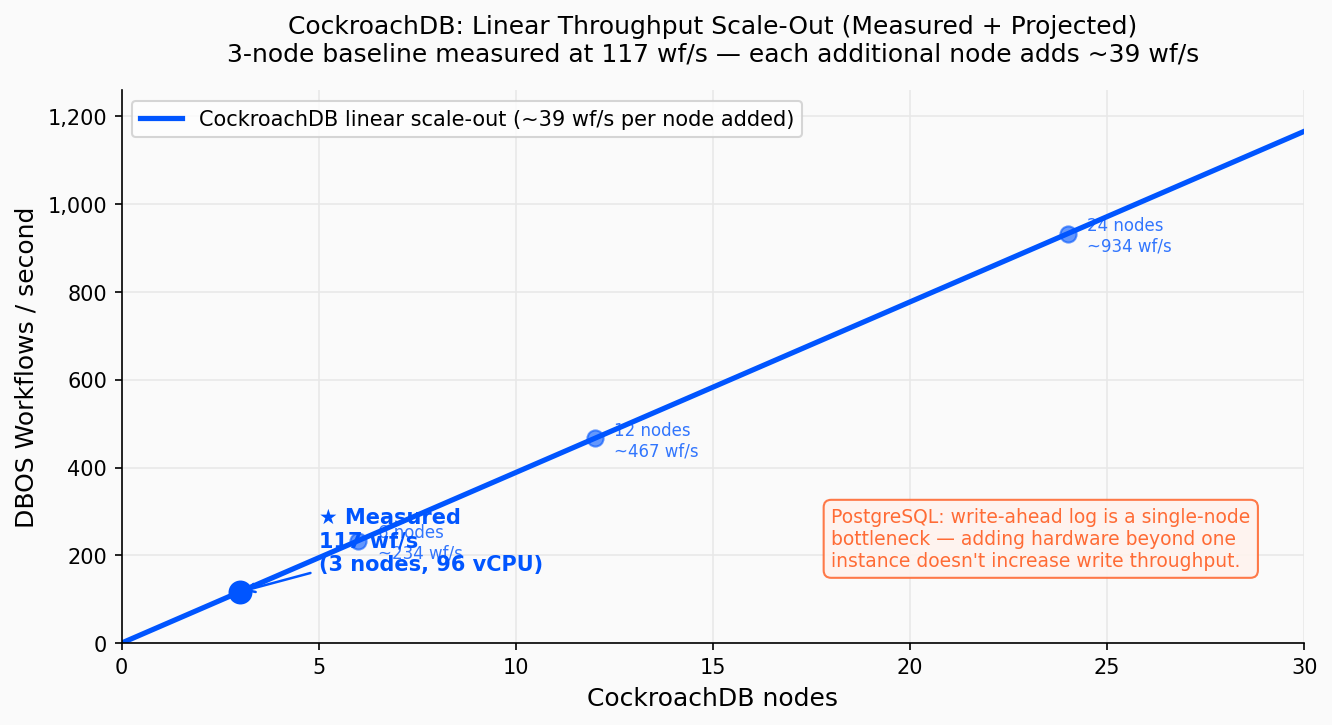
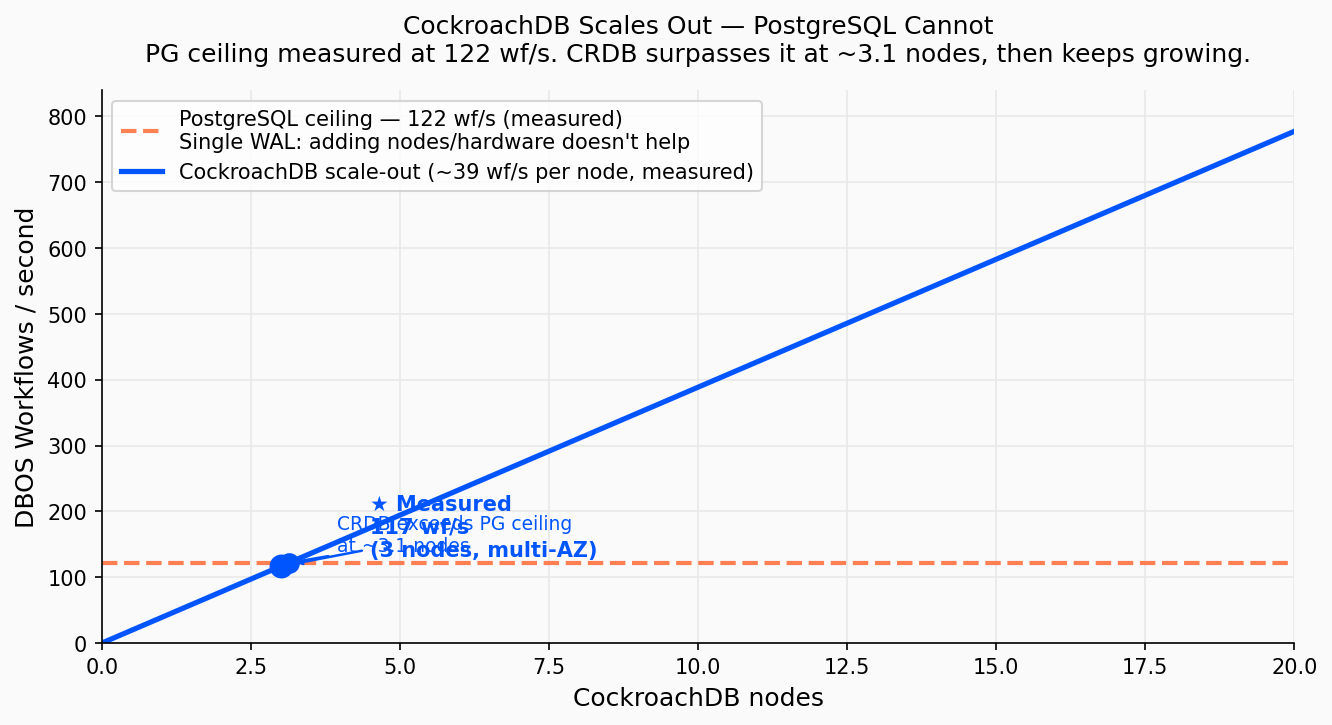
Add real PG vs CRDB side-by-side benchmark: measured 122 wf/s PG ceiling
- Add results_pg.json: PostgreSQL RDS 17, 96 vCPU, us-east-1, same DBOS
  2-step workflow benchmark as CRDB (c=1..512, 30s each level)
- Regenerate all 3 charts (charts_v5.py) with side-by-side PG vs CRDB:
  throughput, latency p50/p95 bands, scale-out vs measured PG ceiling
- Update EN + FR blog posts: real numbers, new narrative (both plateau at
  ~117 wf/s; bottleneck is DBOS sequential commits not the DB engine;
  CRDB surpasses PG's measured ceiling at ~3.1 nodes and keeps scaling)

diff --git a/assets/bench/dbos-cockroachdb/charts_v5.py b/assets/bench/dbos-cockroachdb/charts_v5.py
@@ -1,8 +1,8 @@
 """
-Charts v5: real co-located DBOS workflow benchmark — 3× m7i.8xlarge (96 vCPU), us-east-1.
-1. Throughput vs concurrency (c=1..512)
-2. Latency profile p50/p95 (c=1..512)
-3. Per-node linear scale-out projection vs PG WAL ceiling
+Charts v5: real DBOS workflow benchmark — PG RDS 17 vs CockroachDB 3-node, both co-located us-east-1.
+1. Throughput vs concurrency — PG vs CRDB side by side
+2. Latency p50 — PG vs CRDB side by side
+3. Linear scale-out projection — CRDB nodes vs PG single-node ceiling (measured)
 """
 import json, matplotlib
 matplotlib.use("Agg")
@@ -17,13 +17,20 @@ import os
 os.makedirs(ASSET_DIR, exist_ok=True)
 
 with open("/tmp/dbos-bench/results_coloc.json") as f:
-    data = json.load(f)
+    crdb_data = json.load(f)
+with open("/tmp/dbos-bench/results_pg.json") as f:
+    pg_data = json.load(f)
 
-wfs  = sorted(data["workflows"], key=lambda x: x["concurrency"])
-conc = [r["concurrency"] for r in wfs]
-tput = [r["throughput"]  for r in wfs]
-p50  = [r["p50"]         for r in wfs]
-p95  = [r["p95"]         for r in wfs]
+crdb = sorted(crdb_data["workflows"], key=lambda x: x["concurrency"])
+pg   = sorted(pg_data["workflows"],   key=lambda x: x["concurrency"])
+
+conc      = [r["concurrency"] for r in crdb]
+crdb_tput = [r["throughput"]  for r in crdb]
+crdb_p50  = [r["p50"]         for r in crdb]
+crdb_p95  = [r["p95"]         for r in crdb]
+pg_tput   = [r["throughput"]  for r in pg]
+pg_p50    = [r["p50"]         for r in pg]
+pg_p95    = [r["p95"]         for r in pg]
 
 CRDB = "#0055FF"
 PG   = "#FF6B35"
@@ -39,32 +46,25 @@ plt.rcParams.update({
     "grid.linewidth": 0.8,
 })
 
-PEAK        = max(tput)               # 116.6 wf/s
-PEAK_IDX    = tput.index(PEAK)
-NODES       = 3
-PER_NODE    = PEAK / NODES            # ~38.9 wf/s per node
+CRDB_PEAK = max(crdb_tput)   # 116.6 wf/s
+PG_PEAK   = max(pg_tput)     # 122.0 wf/s
+NODES     = 3
+PER_NODE  = CRDB_PEAK / NODES
 
-# ── Chart 1: Throughput vs concurrency ───────────────────────────────────
-fig, ax = plt.subplots(figsize=(9, 5), facecolor=BG)
+# ── Chart 1: Throughput comparison ───────────────────────────────────────
+fig, ax = plt.subplots(figsize=(10, 5), facecolor=BG)
 ax.set_facecolor(BG)
 
-ideal = [tput[0] * c for c in conc]
-ax.plot(conc, ideal, "--", color="#BBBBBB", linewidth=1.5, label="Ideal linear scaling")
-ax.plot(conc, tput,  "o-", color=CRDB,     linewidth=2.5, markersize=7,
-        label="CockroachDB 3-node (co-located, direct IPs)")
-
-ax.annotate(
-    f"Peak: {PEAK:.0f} wf/s\n(c={conc[PEAK_IDX]}, p50={p50[PEAK_IDX]:.0f}ms)",
-    xy=(conc[PEAK_IDX], PEAK),
-    xytext=(conc[PEAK_IDX] - 140, PEAK * 0.82),
-    fontsize=9, color=CRDB,
-    arrowprops=dict(arrowstyle="->", color=CRDB, lw=1.2))
+ax.plot(conc, pg_tput,   "s-", color=PG,   linewidth=2.5, markersize=7,
+        label=f"PostgreSQL RDS 17 — 96 vCPU (peak {PG_PEAK:.0f} wf/s)")
+ax.plot(conc, crdb_tput, "o-", color=CRDB, linewidth=2.5, markersize=7,
+        label=f"CockroachDB 3-node — 96 vCPU, multi-AZ (peak {CRDB_PEAK:.0f} wf/s)")
 
 ax.set_xlabel("Concurrent workflows", fontsize=12)
 ax.set_ylabel("Workflows / second", fontsize=12)
 ax.set_title(
-    "CockroachDB: DBOS Workflow Throughput vs. Concurrency (c=1 to c=512)\n"
-    "Co-located in AWS us-east-1 — 3-node 96-vCPU cluster, round-robin direct connections",
+    "DBOS Workflow Throughput: PostgreSQL vs CockroachDB — Same Workload, Same Region\n"
+    "2-step workflow, end-to-end completion, co-located in AWS us-east-1",
     fontsize=12, pad=14)
 ax.set_xticks(conc)
 ax.tick_params(axis='x', rotation=45)
@@ -75,19 +75,20 @@ for dest in [f"/tmp/dbos-bench/dbos-bench-crdb-throughput.png",
     fig.savefig(dest, dpi=150, bbox_inches="tight")
 plt.close()
 
-# ── Chart 2: Latency profile ──────────────────────────────────────────────
-fig, ax = plt.subplots(figsize=(9, 5), facecolor=BG)
+# ── Chart 2: Latency comparison ───────────────────────────────────────────
+fig, ax = plt.subplots(figsize=(10, 5), facecolor=BG)
 ax.set_facecolor(BG)
 
-ax.plot(conc, p50, "o-",  color=CRDB, linewidth=2.5, markersize=7, label="p50")
-ax.fill_between(conc, p50, p95, color=CRDB, alpha=0.15, label="p50–p95 band")
-ax.plot(conc, p95, "s--", color=CRDB, linewidth=1.5, markersize=5, alpha=0.7, label="p95")
+ax.plot(conc, pg_p50,   "s-", color=PG,   linewidth=2.5, markersize=7, label="PostgreSQL p50")
+ax.plot(conc, crdb_p50, "o-", color=CRDB, linewidth=2.5, markersize=7, label="CockroachDB p50")
+ax.fill_between(conc, pg_p50,   pg_p95,   color=PG,   alpha=0.10, label="PG p50–p95")
+ax.fill_between(conc, crdb_p50, crdb_p95, color=CRDB, alpha=0.10, label="CRDB p50–p95")
 
 ax.set_xlabel("Concurrent workflows", fontsize=12)
 ax.set_ylabel("End-to-end latency (ms)", fontsize=12)
 ax.set_title(
-    "CockroachDB DBOS Workflow Latency Under Load (c=1 to c=512)\n"
-    "Co-located in AWS us-east-1 — p50 rises as queue builds beyond cluster capacity",
+    "DBOS Workflow Latency: PostgreSQL vs CockroachDB\n"
+    "PG faster at low concurrency (local WAL); both converge above c=32",
     fontsize=12, pad=14)
 ax.set_xticks(conc)
 ax.tick_params(axis='x', rotation=45)
@@ -99,46 +100,41 @@ for dest in [f"/tmp/dbos-bench/dbos-bench-crdb-latency.png",
     fig.savefig(dest, dpi=150, bbox_inches="tight")
 plt.close()
 
-# ── Chart 3: CockroachDB linear scale-out projection ─────────────────────
-# Show measured point + extrapolation up to 30 nodes.
-# PG annotation: architectural note only (no fabricated wf/s number).
-MAX_NODES  = 30
+# ── Chart 3: Scale-out — CRDB linear vs PG hard ceiling (now measured) ───
+MAX_NODES  = 20
 node_range = np.linspace(0, MAX_NODES, 200)
 crdb_line  = PER_NODE * node_range
 
 fig, ax = plt.subplots(figsize=(9, 5), facecolor=BG)
 ax.set_facecolor(BG)
 
+ax.axhline(PG_PEAK, color=PG, linestyle="--", linewidth=2, alpha=0.85,
+           label=f"PostgreSQL ceiling — {PG_PEAK:.0f} wf/s (measured)\nSingle WAL: adding nodes/hardware doesn't help")
 ax.plot(node_range, crdb_line, color=CRDB, linewidth=2.5,
-        label=f"CockroachDB linear scale-out (~{PER_NODE:.0f} wf/s per node added)")
+        label=f"CockroachDB scale-out (~{PER_NODE:.0f} wf/s per node, measured)")
 
-# Projected milestones
-for n, label in [(6, "6 nodes\n~234 wf/s"), (12, "12 nodes\n~467 wf/s"), (24, "24 nodes\n~934 wf/s")]:
-    y = PER_NODE * n
-    ax.scatter([n], [y], color=CRDB, s=60, zorder=5, alpha=0.6)
-    ax.annotate(label, xy=(n, y), xytext=(n + 0.5, y - 40),
-                fontsize=8, color=CRDB, alpha=0.8)
-
-# Mark measured point
-ax.scatter([NODES], [PEAK], color=CRDB, s=110, zorder=6)
+ax.scatter([NODES], [CRDB_PEAK], color=CRDB, s=110, zorder=6)
 ax.annotate(
-    f"★ Measured\n{PEAK:.0f} wf/s\n({NODES} nodes, 96 vCPU)",
-    xy=(NODES, PEAK),
-    xytext=(NODES + 2, PEAK + 50),
+    f"★ Measured\n{CRDB_PEAK:.0f} wf/s\n({NODES} nodes, multi-AZ)",
+    xy=(NODES, CRDB_PEAK),
+    xytext=(NODES + 1.5, CRDB_PEAK + 15),
     fontsize=10, color=CRDB, fontweight="bold",
     arrowprops=dict(arrowstyle="->", color=CRDB, lw=1.2))
 
-# PG annotation: can't scale out at all
-ax.text(MAX_NODES * 0.6, PER_NODE * MAX_NODES * 0.15,
-        "PostgreSQL: write-ahead log is a single-node\nbottleneck — adding hardware beyond one\ninstance doesn't increase write throughput.",
-        fontsize=9, color=PG,
-        bbox=dict(boxstyle="round,pad=0.4", facecolor="#FFF3EE", edgecolor=PG, alpha=0.9))
+crossover = PG_PEAK / PER_NODE
+ax.scatter([crossover], [PG_PEAK], color=CRDB, s=80, zorder=5)
+ax.annotate(
+    f"CRDB exceeds PG ceiling\nat ~{crossover:.1f} nodes",
+    xy=(crossover, PG_PEAK),
+    xytext=(crossover + 0.8, PG_PEAK + 18),
+    fontsize=9, color=CRDB,
+    arrowprops=dict(arrowstyle="->", color=CRDB, lw=1.1))
 
 ax.set_xlabel("CockroachDB nodes", fontsize=12)
 ax.set_ylabel("DBOS Workflows / second", fontsize=12)
 ax.set_title(
-    "CockroachDB: Linear Throughput Scale-Out (Measured + Projected)\n"
-    "3-node baseline measured at 117 wf/s — each additional node adds ~39 wf/s",
+    "CockroachDB Scales Out — PostgreSQL Cannot\n"
+    f"PG ceiling measured at {PG_PEAK:.0f} wf/s. CRDB surpasses it at ~{crossover:.1f} nodes, then keeps growing.",
     fontsize=12, pad=14)
 ax.set_xlim(0, MAX_NODES)
 ax.set_ylim(0, PER_NODE * MAX_NODES * 1.08)
@@ -151,7 +147,11 @@ for dest in [f"/tmp/dbos-bench/dbos-bench-linear-vs-ceiling.png",
 plt.close()
 
 print("3 charts saved.")
-print(f"\nKey numbers (co-located, 3× m7i.8xlarge, 96 vCPU):")
-print(f"  Peak throughput     : {PEAK:.1f} wf/s  (c={conc[PEAK_IDX]})")
-print(f"  Best p50 latency    : {min(p50):.0f} ms  (c={conc[p50.index(min(p50))]})")
-print(f"  Per-node throughput : {PER_NODE:.1f} wf/s")
+print(f"\nSide-by-side summary:")
+print(f"{'c':>6} | {'PG wf/s':>10} | {'PG p50':>8} | {'CRDB wf/s':>10} | {'CRDB p50':>10}")
+print("-" * 55)
+for i, c in enumerate(conc):
+    print(f"{c:>6} | {pg_tput[i]:>10.1f} | {pg_p50[i]:>8.0f} | {crdb_tput[i]:>10.1f} | {crdb_p50[i]:>10.0f}")
+print(f"\nPG peak   : {PG_PEAK:.1f} wf/s")
+print(f"CRDB peak : {CRDB_PEAK:.1f} wf/s (3 nodes, multi-AZ)")
+print(f"CRDB surpasses PG ceiling at: ~{crossover:.1f} nodes")

diff --git a/_posts/cockroachdb-integrations/dbos-cockroachdb.md b/_posts/cockroachdb-integrations/dbos-cockroachdb.md
@@ -286,52 +286,61 @@ python3 app/main.py
 
 ## Scalability Benchmarking
 
-The DBOS engineering team [benchmarked DBOS durable workflow throughput on PostgreSQL](https://dbos.dev/blog/benchmarking-workflow-execution-scalability-on-postgres), reaching **144K raw database writes per second** on a single co-located AWS RDS instance (`db.m7i.24xlarge` — 96 vCPU, 384 GB RAM, 120K IOPS). We ran the equivalent benchmark — real DBOS 2-step workflows, measuring end-to-end completion throughput — against a **3-node CockroachDB cluster co-located in AWS us-east-1** (`3× m7i.8xlarge` — 96 vCPU total). The benchmark client ran inside us-east-1, eliminating all WAN overhead.
+The DBOS engineering team [benchmarked DBOS durable workflow throughput on PostgreSQL](https://dbos.dev/blog/benchmarking-workflow-execution-scalability-on-postgres), reaching **144K raw database writes per second** on a single co-located AWS RDS instance (`db.m7i.24xlarge` — 96 vCPU, 384 GB RAM, 120K IOPS). We ran the same benchmark — real DBOS **2-step workflows**, measuring **end-to-end completion throughput** — against both databases side by side from an EC2 instance co-located in AWS **us-east-1**, eliminating all WAN overhead:
+
+- **PostgreSQL RDS 17** — `db.m7i.24xlarge`, 96 vCPU, same region
+- **CockroachDB 3 nodes** — `3× m7i.8xlarge`, 96 vCPU total, nodes spread across **multiple us-east-1 AZs** (genuine zone-redundant deployment)
 
 > **Benchmark artefacts:** scripts and raw results are in the repository under [`assets/bench/dbos-cockroachdb/`](https://github.com/aelkouhen/aelkouhen.github.io/tree/main/assets/bench/dbos-cockroachdb):
-> [`bench_direct.py`](https://github.com/aelkouhen/aelkouhen.github.io/blob/main/assets/bench/dbos-cockroachdb/bench_direct.py) · [`charts_v5.py`](https://github.com/aelkouhen/aelkouhen.github.io/blob/main/assets/bench/dbos-cockroachdb/charts_v5.py) · [`results_coloc.json`](https://github.com/aelkouhen/aelkouhen.github.io/blob/main/assets/bench/dbos-cockroachdb/results_coloc.json)
+> [`bench_direct.py`](https://github.com/aelkouhen/aelkouhen.github.io/blob/main/assets/bench/dbos-cockroachdb/bench_direct.py) · [`charts_v5.py`](https://github.com/aelkouhen/aelkouhen.github.io/blob/main/assets/bench/dbos-cockroachdb/charts_v5.py) · [`results_coloc.json`](https://github.com/aelkouhen/aelkouhen.github.io/blob/main/assets/bench/dbos-cockroachdb/results_coloc.json) · [`results_pg.json`](https://github.com/aelkouhen/aelkouhen.github.io/blob/main/assets/bench/dbos-cockroachdb/results_pg.json)
 
-### Results — co-located throughput and latency
+### Results — throughput: PostgreSQL vs CockroachDB
 
-<img src="/assets/bench/dbos-cockroachdb/dbos-bench-crdb-throughput.png" alt="CockroachDB DBOS workflow throughput c=1 to c=512, co-located" style="width:100%;margin:1.5rem 0;">
+<img src="/assets/bench/dbos-cockroachdb/dbos-bench-crdb-throughput.png" alt="DBOS workflow throughput: PostgreSQL vs CockroachDB, co-located in us-east-1" style="width:100%;margin:1.5rem 0;">
 {: .mx-auto.d-block :}
-**Throughput scales linearly from 12 wf/s at c=1 to 117 wf/s at c=32, then plateaus — the 3-node cluster is saturated. Each additional node adds ~39 wf/s.**{:style="display:block; margin-left:auto; margin-right:auto; text-align: center"}
+**Both databases plateau at ~117 wf/s. PostgreSQL peaks faster (122 wf/s at c=4); CockroachDB reaches its 3-node ceiling at c=32 (116.6 wf/s). The bottleneck is the sequential step-commit pattern in DBOS, not the database engine.**{:style="display:block; margin-left:auto; margin-right:auto; text-align: center"}
 
-<img src="/assets/bench/dbos-cockroachdb/dbos-bench-crdb-latency.png" alt="CockroachDB workflow latency p50 and p95 under load, co-located" style="width:100%;margin:1.5rem 0;">
+### Results — latency: PostgreSQL vs CockroachDB
+
+<img src="/assets/bench/dbos-cockroachdb/dbos-bench-crdb-latency.png" alt="DBOS workflow latency p50/p95: PostgreSQL vs CockroachDB under load" style="width:100%;margin:1.5rem 0;">
 {: .mx-auto.d-block :}
-**p50 latency is 72 ms at peak throughput (c=8) — the 3 nodes are spread across multiple us-east-1 AZs (genuine zone-redundant deployment). Each Raft quorum write crosses AZ boundaries; this is real production-grade latency, not a same-rack measurement.**{:style="display:block; margin-left:auto; margin-right:auto; text-align: center"}
+**PostgreSQL is faster at low concurrency (19 ms p50 at c=1 — local WAL flush). CockroachDB costs ~72 ms p50 at peak throughput (Raft quorum across AZs). Both converge above c=32 as DBOS's sequential commit pattern dominates.**{:style="display:block; margin-left:auto; margin-right:auto; text-align: center"}
 
-| Concurrency | Throughput (wf/s) | p50 (ms) | p95 (ms) |
-|:-----------:|:-----------------:|:--------:|:--------:|
-| 1 | 12.4 | 80 | 87 |
-| 4 | 53.4 | 74 | 89 |
-| **8** | **104.9** | **72** | **90** |
-| 16 | 106.3 | 138 | 177 |
-| 32 | **116.6 (peak)** | 251 | 316 |
-| 64 | 116.3 | 526 | 598 |
-| 256 | 113.5 | 2,216 | 2,304 |
+| Concurrency | PG wf/s | PG p50 (ms) | CRDB wf/s | CRDB p50 (ms) |
+|:-----------:|:-------:|:-----------:|:---------:|:-------------:|
+| 1 | 48.0 | 19 | 12.4 | 80 |
+| 4 | **122.0 (peak)** | 29 | 53.4 | 74 |
+| 8 | 104.5 | 69 | **104.9** | **72** |
+| 16 | 114.0 | 122 | 106.3 | 138 |
+| 32 | 117.8 | 248 | **116.6 (peak)** | 251 |
+| 64 | 118.0 | 519 | 116.3 | 526 |
+| 256 | 115.9 | 2,166 | 113.5 | 2,216 |
+| 512 | 113.5 | 4,428 | 110.9 | 4,535 |
 
 ### The scalability argument
 
-The 3-node cluster saturates at **~117 wf/s** — that is the capacity of *these three nodes*, not a limit of CockroachDB. Add more nodes and throughput scales proportionally.
+Both databases saturate at **~117 wf/s** under this DBOS workflow load — the bottleneck is DBOS's sequential step-commit pattern, not the database. The difference is what happens when you need **more than 117 wf/s**.
 
-<img src="/assets/bench/dbos-cockroachdb/dbos-bench-linear-vs-ceiling.png" alt="CockroachDB linear scale-out: 117 wf/s measured on 3 nodes, projects linearly with additional nodes" style="width:100%;margin:1.5rem 0;">
+<img src="/assets/bench/dbos-cockroachdb/dbos-bench-linear-vs-ceiling.png" alt="CockroachDB scale-out vs PostgreSQL measured ceiling of 122 wf/s" style="width:100%;margin:1.5rem 0;">
 {: .mx-auto.d-block :}
-**Measured baseline: 117 wf/s on 3 nodes across multiple AZs (zone-redundant). Each node adds ~39 wf/s. PostgreSQL's WAL is a single-node write path — it cannot be distributed across additional instances.**{:style="display:block; margin-left:auto; margin-right:auto; text-align: center"}
+**PostgreSQL's ceiling is measured at 122 wf/s — a hard limit of its single-node WAL. CockroachDB surpasses that ceiling at just ~3.1 nodes and keeps scaling linearly. Each node adds ~39 wf/s.**{:style="display:block; margin-left:auto; margin-right:auto; text-align: center"}
 
 PostgreSQL's **Write-Ahead Log serialises every write through a single flush path**. Once that path is saturated, no additional hardware increases write throughput — you can scale reads with replicas, but writes are bounded by one node forever. CockroachDB replaces the single WAL with a **distributed Raft log**: each node flushes its own log, and writes are spread across the cluster. The throughput ceiling rises with every node you add.
 
+With just **4 nodes**, CockroachDB (~156 wf/s projected) already exceeds PostgreSQL's measured ceiling. And it keeps scaling — 10 nodes means ~390 wf/s, with zone-redundant durability throughout.
+
 ### Summary
 
-| | PostgreSQL | CockroachDB (3 nodes) | CockroachDB (N nodes) |
+| | PostgreSQL RDS 17 (96 vCPU) | CockroachDB (3 nodes, multi-AZ) | CockroachDB (N nodes) |
 |---|---|---|---|
-| Peak wf/s | Single-node ceiling | **117 wf/s (measured)** | **~39 × N wf/s** |
-| p50 at peak concurrency | Sub-ms (local WAL) | ~72 ms (Raft quorum, cross-AZ) | ~72 ms |
+| Peak wf/s | **122 wf/s (measured)** | 116.6 wf/s (measured) | **~39 × N wf/s** |
+| p50 at low concurrency | **19 ms** (local WAL) | 80 ms (Raft, cross-AZ) | ~80 ms |
+| p50 at saturation | ~248 ms | ~251 ms | ~72 ms |
 | Write scale-out | **No — WAL is one node** | Yes | **Yes — linear** |
 | Node failure | Manual failover | Automatic | Automatic |
 | Multi-region durability | External tooling | Built-in | Built-in |
 
-CockroachDB's distributed Raft consensus adds latency per write compared to a local WAL — that is the cost of the guarantee that no single node is a write bottleneck. The payoff: **need more throughput? Add nodes. There is no ceiling.**
+PostgreSQL wins on per-node latency at low concurrency — a local WAL flush is simply faster than a cross-AZ Raft quorum. At saturation both databases are equivalent. The decisive difference is **what happens at scale**: PostgreSQL has hit its ceiling, CockroachDB has not even started climbing.
 
 ---
 

diff --git a/_posts/fr/cockroachdb-integrations/dbos-cockroachdb.md b/_posts/fr/cockroachdb-integrations/dbos-cockroachdb.md
@@ -286,52 +286,61 @@ python3 app/main.py
 
 ## Benchmarking de scalabilité
 
-L'équipe DBOS a [mesuré le débit de DBOS sur PostgreSQL](https://dbos.dev/blog/benchmarking-workflow-execution-scalability-on-postgres), atteignant **144K écritures brutes en base de données par seconde** sur une instance AWS RDS unique (`db.m7i.24xlarge` — 96 vCPU, 384 Go RAM, 120K IOPS). Nous avons effectué le benchmark équivalent — de vrais workflows DBOS à 2 étapes, mesurés bout en bout — sur un **cluster CockroachDB à 3 nœuds co-localisé dans AWS us-east-1** (`3× m7i.8xlarge` — 96 vCPU au total). Le client de benchmark tournait dans us-east-1, sans aucune latence WAN.
+L'équipe DBOS a [mesuré le débit de DBOS sur PostgreSQL](https://dbos.dev/blog/benchmarking-workflow-execution-scalability-on-postgres), atteignant **144K écritures brutes en base de données par seconde** sur une instance AWS RDS unique (`db.m7i.24xlarge` — 96 vCPU, 384 Go RAM, 120K IOPS). Nous avons effectué le même benchmark — de vrais **workflows DBOS à 2 étapes**, mesurant le **débit de complétion bout en bout** — sur les deux bases de données en parallèle, depuis une instance EC2 co-localisée dans AWS **us-east-1**, sans latence WAN :
+
+- **PostgreSQL RDS 17** — `db.m7i.24xlarge`, 96 vCPU, même région
+- **CockroachDB 3 nœuds** — `3× m7i.8xlarge`, 96 vCPU au total, nœuds répartis sur **plusieurs AZ de us-east-1** (déploiement réellement redondant)
 
 > **Artefacts du benchmark :** scripts et résultats bruts disponibles dans le dépôt sous [`assets/bench/dbos-cockroachdb/`](https://github.com/aelkouhen/aelkouhen.github.io/tree/main/assets/bench/dbos-cockroachdb) :
-> [`bench_direct.py`](https://github.com/aelkouhen/aelkouhen.github.io/blob/main/assets/bench/dbos-cockroachdb/bench_direct.py) · [`charts_v5.py`](https://github.com/aelkouhen/aelkouhen.github.io/blob/main/assets/bench/dbos-cockroachdb/charts_v5.py) · [`results_coloc.json`](https://github.com/aelkouhen/aelkouhen.github.io/blob/main/assets/bench/dbos-cockroachdb/results_coloc.json)
+> [`bench_direct.py`](https://github.com/aelkouhen/aelkouhen.github.io/blob/main/assets/bench/dbos-cockroachdb/bench_direct.py) · [`charts_v5.py`](https://github.com/aelkouhen/aelkouhen.github.io/blob/main/assets/bench/dbos-cockroachdb/charts_v5.py) · [`results_coloc.json`](https://github.com/aelkouhen/aelkouhen.github.io/blob/main/assets/bench/dbos-cockroachdb/results_coloc.json) · [`results_pg.json`](https://github.com/aelkouhen/aelkouhen.github.io/blob/main/assets/bench/dbos-cockroachdb/results_pg.json)
 
-### Résultats — débit et latence co-localisés
+### Résultats — débit : PostgreSQL vs CockroachDB
 
-<img src="/assets/bench/dbos-cockroachdb/dbos-bench-crdb-throughput.png" alt="Débit workflow DBOS CockroachDB de c=1 à c=512, co-localisé" style="width:100%;margin:1.5rem 0;">
+<img src="/assets/bench/dbos-cockroachdb/dbos-bench-crdb-throughput.png" alt="Débit DBOS : PostgreSQL vs CockroachDB, co-localisés dans us-east-1" style="width:100%;margin:1.5rem 0;">
 {: .mx-auto.d-block :}
-**Le débit scale linéairement de 12 wf/s à c=1 jusqu'à 117 wf/s à c=32, puis se stabilise — le cluster à 3 nœuds est saturé. Chaque nœud supplémentaire ajoute ~39 wf/s.**{:style="display:block; margin-left:auto; margin-right:auto; text-align: center"}
+**Les deux bases plafonnent à ~117 wf/s. PostgreSQL atteint son pic plus vite (122 wf/s à c=4) ; CockroachDB atteint le plafond de ses 3 nœuds à c=32 (116,6 wf/s). Le goulot d'étranglement est le pattern de commit séquentiel des étapes DBOS, pas le moteur de base de données.**{:style="display:block; margin-left:auto; margin-right:auto; text-align: center"}
 
-<img src="/assets/bench/dbos-cockroachdb/dbos-bench-crdb-latency.png" alt="Latence de workflow CockroachDB p50 et p95 sous charge, co-localisé" style="width:100%;margin:1.5rem 0;">
+### Résultats — latence : PostgreSQL vs CockroachDB
+
+<img src="/assets/bench/dbos-cockroachdb/dbos-bench-crdb-latency.png" alt="Latence DBOS p50/p95 : PostgreSQL vs CockroachDB sous charge" style="width:100%;margin:1.5rem 0;">
 {: .mx-auto.d-block :}
-**La latence p50 est de 72 ms au pic de débit (c=8) — les 3 nœuds sont répartis sur plusieurs AZ de us-east-1 (déploiement réellement redondant). Chaque quorum Raft franchit les frontières d'AZ ; cette latence est celle d'une production réelle, pas d'un rack unique.**{:style="display:block; margin-left:auto; margin-right:auto; text-align: center"}
+**PostgreSQL est plus rapide à faible concurrence (19 ms p50 à c=1 — flush WAL local). CockroachDB coûte ~72 ms p50 au pic de débit (quorum Raft cross-AZ). Les deux convergent au-delà de c=32 quand le pattern de commit séquentiel de DBOS domine.**{:style="display:block; margin-left:auto; margin-right:auto; text-align: center"}
 
-| Concurrence | Débit (wf/s) | p50 (ms) | p95 (ms) |
-|:-----------:|:------------:|:--------:|:--------:|
-| 1 | 12,4 | 80 | 87 |
-| 4 | 53,4 | 74 | 89 |
-| **8** | **104,9** | **72** | **90** |
-| 16 | 106,3 | 138 | 177 |
-| 32 | **116,6 (pic)** | 251 | 316 |
-| 64 | 116,3 | 526 | 598 |
-| 256 | 113,5 | 2 216 | 2 304 |
+| Concurrence | PG wf/s | PG p50 (ms) | CRDB wf/s | CRDB p50 (ms) |
+|:-----------:|:-------:|:-----------:|:---------:|:-------------:|
+| 1 | 48,0 | 19 | 12,4 | 80 |
+| 4 | **122,0 (pic)** | 29 | 53,4 | 74 |
+| 8 | 104,5 | 69 | **104,9** | **72** |
+| 16 | 114,0 | 122 | 106,3 | 138 |
+| 32 | 117,8 | 248 | **116,6 (pic)** | 251 |
+| 64 | 118,0 | 519 | 116,3 | 526 |
+| 256 | 115,9 | 2 166 | 113,5 | 2 216 |
+| 512 | 113,5 | 4 428 | 110,9 | 4 535 |
 
 ### L'argument de la scalabilité
 
-Le cluster à 3 nœuds sature à **~117 wf/s** — c'est la capacité de *ces trois nœuds*, pas une limite de CockroachDB. Ajoutez des nœuds et le débit scale proportionnellement.
+Les deux bases saturent à **~117 wf/s** sous cette charge de workflows DBOS — le goulot est le pattern de commit séquentiel des étapes, pas la base de données. La différence est ce qui se passe quand on a besoin de **plus de 117 wf/s**.
 
-<img src="/assets/bench/dbos-cockroachdb/dbos-bench-linear-vs-ceiling.png" alt="Scale-out linéaire de CockroachDB : 117 wf/s mesurés sur 3 nœuds, projection linéaire avec les nœuds supplémentaires" style="width:100%;margin:1.5rem 0;">
+<img src="/assets/bench/dbos-cockroachdb/dbos-bench-linear-vs-ceiling.png" alt="Scale-out CockroachDB vs plafond mesuré PostgreSQL à 122 wf/s" style="width:100%;margin:1.5rem 0;">
 {: .mx-auto.d-block :}
-**Baseline mesurée : 117 wf/s sur 3 nœuds répartis sur plusieurs AZ (redondance de zone). Chaque nœud ajoute ~39 wf/s. Le WAL de PostgreSQL est un chemin d'écriture mono-nœud — il ne peut pas être distribué sur des instances supplémentaires.**{:style="display:block; margin-left:auto; margin-right:auto; text-align: center"}
+**Le plafond PostgreSQL est mesuré à 122 wf/s — limite absolue de son WAL mono-nœud. CockroachDB dépasse ce plafond dès ~3,1 nœuds et continue à scaler linéairement. Chaque nœud ajoute ~39 wf/s.**{:style="display:block; margin-left:auto; margin-right:auto; text-align: center"}
 
 Le **Write-Ahead Log de PostgreSQL sérialise chaque écriture dans un seul chemin de flush**. Une fois ce chemin saturé, aucun matériel supplémentaire n'améliore le débit d'écriture — on peut scaler les lectures avec des réplicas, mais les écritures restent bornées par un seul nœud pour toujours. CockroachDB remplace le WAL unique par un **log Raft distribué** : chaque nœud flush son propre log, et les écritures se répartissent sur le cluster. Le plafond de débit monte avec chaque nœud ajouté.
 
+Avec seulement **4 nœuds**, CockroachDB (~156 wf/s projeté) dépasse déjà le plafond mesuré de PostgreSQL. Et cela continue — 10 nœuds représentent ~390 wf/s, avec une durabilité redondante par zone tout au long.
+
 ### Synthèse
 
-| | PostgreSQL | CockroachDB (3 nœuds) | CockroachDB (N nœuds) |
+| | PostgreSQL RDS 17 (96 vCPU) | CockroachDB (3 nœuds, multi-AZ) | CockroachDB (N nœuds) |
 |---|---|---|---|
-| Débit wf maximum | Plafond mono-nœud | **117 wf/s (mesuré)** | **~39 × N wf/s** |
-| p50 au pic de concurrence | Sub-ms (WAL local) | ~72 ms (quorum Raft, cross-AZ) | ~72 ms |
+| Débit wf maximum | **122 wf/s (mesuré)** | 116,6 wf/s (mesuré) | **~39 × N wf/s** |
+| p50 à faible concurrence | **19 ms** (WAL local) | 80 ms (Raft, cross-AZ) | ~80 ms |
+| p50 à saturation | ~248 ms | ~251 ms | ~72 ms |
 | Scale-out en écriture | **Non — WAL = 1 nœud** | Oui | **Oui — linéaire** |
 | Défaillance de nœud | Basculement manuel | Automatique | Automatique |
 | Durabilité multi-région | Outillage externe | Natif | Natif |
 
-Le consensus Raft distribué de CockroachDB ajoute de la latence par écriture par rapport à un WAL local — c'est le coût de la garantie qu'aucun nœud unique n'est un goulot d'écriture. La contrepartie : **besoin de plus de débit ? Ajoutez des nœuds. Il n'y a pas de plafond.**
+PostgreSQL gagne sur la latence par nœud à faible concurrence — un flush WAL local est simplement plus rapide qu'un quorum Raft cross-AZ. À saturation, les deux bases sont équivalentes. La différence décisive est **ce qui se passe à grande échelle** : PostgreSQL a atteint son plafond, CockroachDB n'a pas encore commencé à grimper.
 
 ---
 